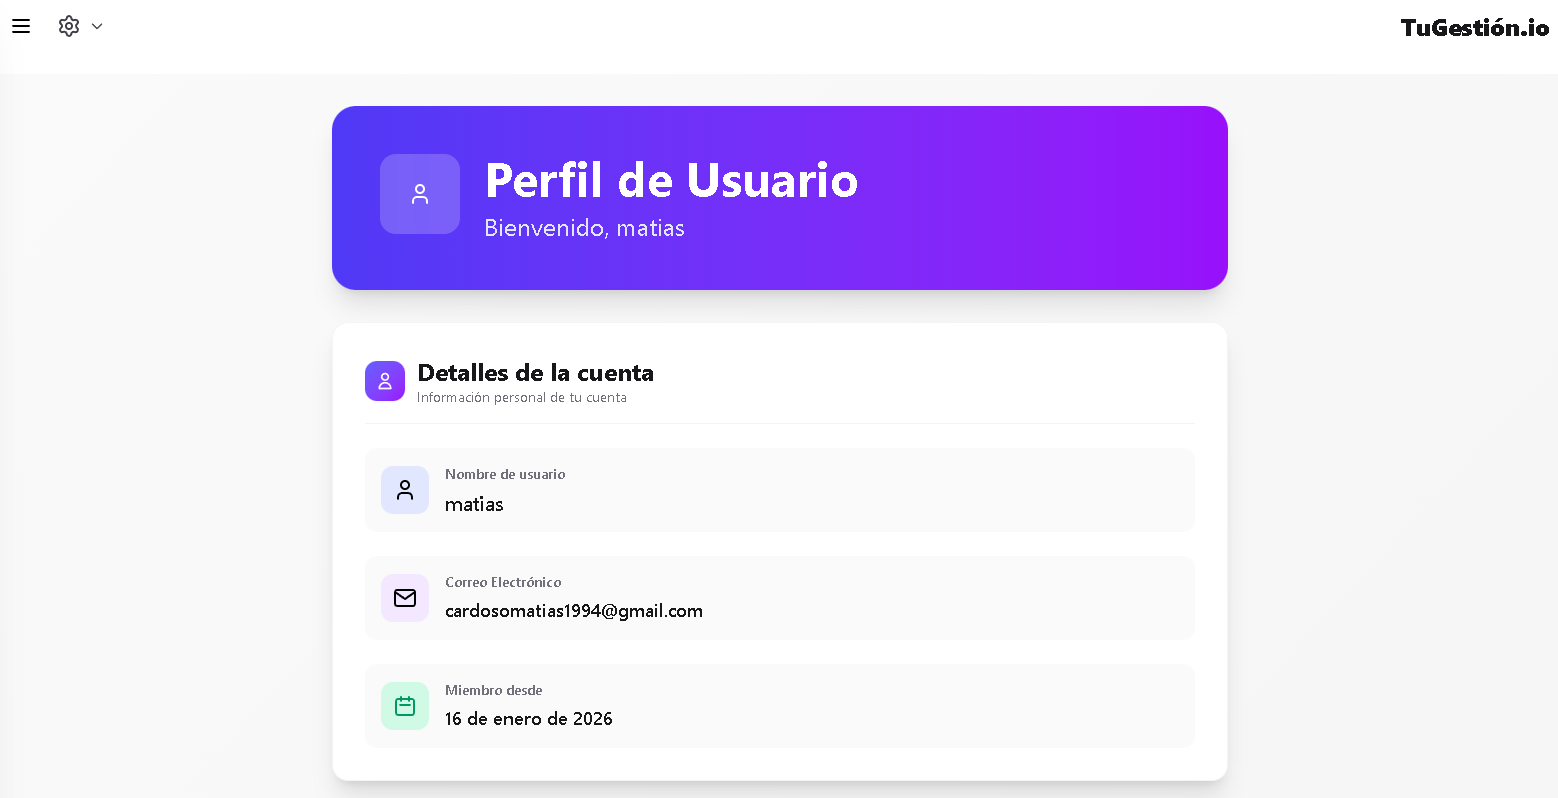
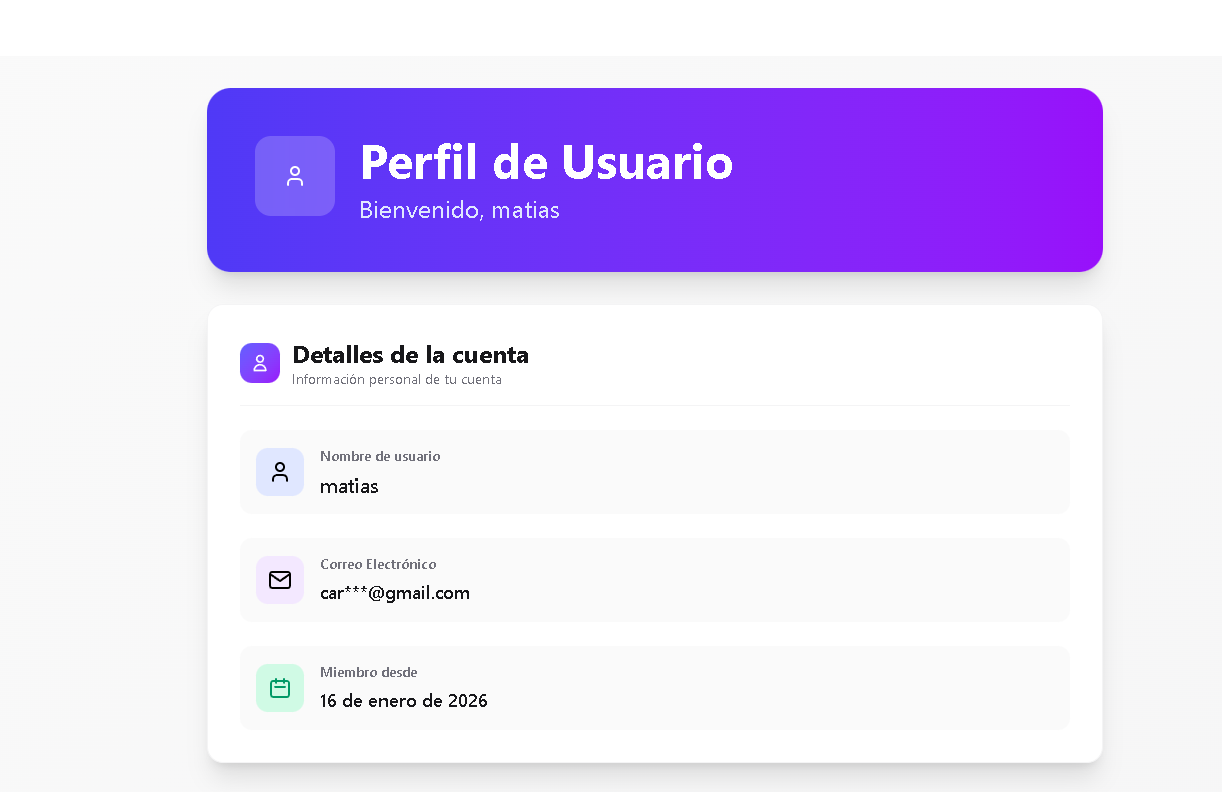
docs: translate README to Spanish and apply user profile privacy enhancements

diff --git a/client/src/components/UserProfile/UserProfile.tsx b/client/src/components/UserProfile/UserProfile.tsx
@@ -51,7 +51,7 @@ export const UserProfile = () => {
               </div>
               <div className="flex-1">
                 <p className="text-sm font-semibold text-zinc-500 mb-1">Correo Electrónico</p>
-                <p className="text-lg font-medium text-zinc-900">{user?.email}</p>
+                <p className="text-lg font-medium text-zinc-900">{user?.email.split("@")[0].slice(0, 3) + "***" + "@" + user?.email.split("@")[1]}</p>
               </div>
             </div>
 
@@ -64,7 +64,7 @@ export const UserProfile = () => {
               <div className="flex-1">
                 <p className="text-sm font-semibold text-zinc-500 mb-1">Miembro desde</p>
                 <p className="text-lg font-medium text-zinc-900">
-                  {new Date(user?.created_at).toLocaleDateString("es-ES", { day: '2-digit', month: 'long', year: 'numeric' })}
+                  {new Date((user!.created_at)).toLocaleDateString("es-ES", { day: '2-digit', month: 'long', year: 'numeric' })}
                 </p>
               </div>
             </div>

diff --git a/README.md b/README.md
@@ -1,15 +1,15 @@
-# Visual Evolution (Indigo Palette Update)
+# Evolución Visual (Actualización a Paleta Índigo)
 
-We have transformed the user interface from a legacy **Red/Gray/B&W** theme to a modern, vibrant **Indigo/Zinc** design system.
+Hemos transformado la interfaz de usuario de un tema legado **Rojo/Gris/B&N** a un sistema de diseño moderno y vibrante en **Índigo/Zinc**.
 
-### 🏠 Home Page (Updated Landing)
+### 🏠 Página de Inicio (Landing Actualizada)
 ![Home Page After](./screenshots/home_after.png)
 
 ---
 
-### 🔄 Interface Comparison (Black & White vs Indigo)
+### 🔄 Comparación de Interfaz (Blanco y Negro vs Índigo)
 
-| View | Before (Black & White) | After (Indigo) |
+| Vista | Antes (Blanco y Negro) | Después (Índigo) |
 | :--- | :---: | :---: |
 | **Login** | ![Login Before](./client/public/images/login-image.PNG) | ![Login After](./screenshots/login_after.png) |
 | **Register** | ![Register Before](./client/public/images/register-image.PNG) | ![Register After](./screenshots/register_after.png) |
@@ -19,8 +19,8 @@ We have transformed the user interface from a legacy **Red/Gray/B&W** theme to a
 
 ---
 
-### 🎨 New Category Icons
-A set of custom-designed icons was added to provide a more intuitive and visual experience in the categories management.
+### 🎨 Nuevos Iconos de Categoría
+Se añadió un conjunto de iconos diseñados a medida para proporcionar una experiencia más intuitiva y visual en la gestión de categorías.
 
 <p align="center">
   <img src="./client/src/assets/imagenes/comida.png" width="80" alt="Comida">
